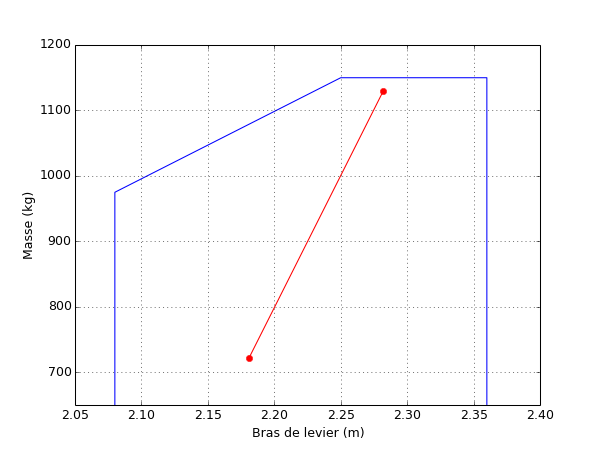
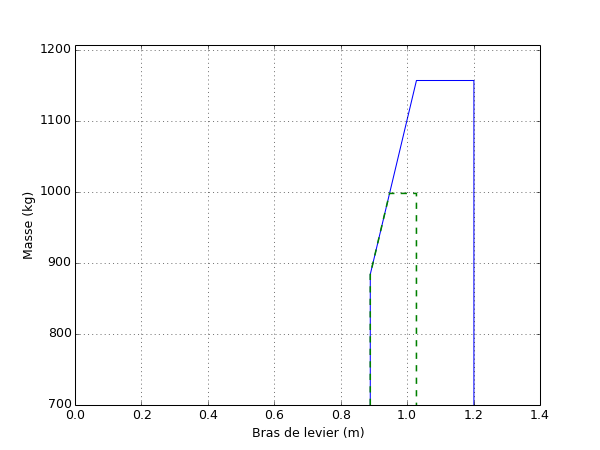
Prise en charge de la catégorie utilitaire

diff --git a/openplane/gui/gui_plane_manager.py b/openplane/gui/gui_plane_manager.py
@@ -18,6 +18,7 @@ class PlanesManagerWindow:
         handlers = {
             "on_mainWindow_destroy": self.app_quit,
             "on_carbuUnits_changed": self.on_carbuUnits_changed,
+            "on_showUtil_toggled": self.on_showUtil_toggled,
             "on_help_clicked": self.on_help_pressed,
             "on_save_clicked": self.on_save_pressed,
             "on_close_clicked": self.app_quit
@@ -108,6 +109,8 @@ class PlanesManagerWindow:
         self.up5x = builder.get_object('up5x')
         self.up5y = builder.get_object('up5y')
 
+        self.show_utilitaire = builder.get_object('showUtil')
+
         # Création de la fenêtre principale
         self.window = builder.get_object('mainWindow')
 
@@ -121,6 +124,30 @@ class PlanesManagerWindow:
         help_window = HelpWindow()
         help_window.connect('delete-event', help_window.app_quit)
         help_window.show_all()
+
+    def on_showUtil_toggled(self, box):
+        if box.get_active():
+            self.up1x.set_editable(True)
+            self.up1y.set_editable(True)
+            self.up2x.set_editable(True)
+            self.up2y.set_editable(True)
+            self.up3x.set_editable(True)
+            self.up3y.set_editable(True)
+            self.up4x.set_editable(True)
+            self.up4y.set_editable(True)
+            self.up5x.set_editable(True)
+            self.up5y.set_editable(True)
+        else:
+            self.up1x.set_editable(False)
+            self.up1y.set_editable(False)
+            self.up2x.set_editable(False)
+            self.up2y.set_editable(False)
+            self.up3x.set_editable(False)
+            self.up3y.set_editable(False)
+            self.up4x.set_editable(False)
+            self.up4y.set_editable(False)
+            self.up5x.set_editable(False)
+            self.up5y.set_editable(False)
 
     def on_carbuUnits_changed(self, *args):
         units = self.carbuUnits.get_active()
@@ -224,6 +251,8 @@ class PlanesManagerWindow:
         values.append(float(self.up5x.get_text()))
         values.append(float(self.up5y.get_text()))
 
+        values.append(self.show_utilitaire.get_active())
+
         plane = Plane()
         plane.create_plane(values)
         plane.save_plane()
@@ -306,6 +335,8 @@ class PlanesManagerWindow:
         self.up4y.set_text(str(plane.up4y))
         self.up5x.set_text(str(plane.up5x))
         self.up5y.set_text(str(plane.up5y))
+
+        self.show_utilitaire.set_active(plane.utilitaire)
 
         # Ajustements
         self.window.set_title('Modifier {}'.format(plane.immatriculation))

diff --git a/openplane/core/Plane.py b/openplane/core/Plane.py
@@ -9,7 +9,7 @@ import json
 class Plane:
 
     def __init__(self, values=None):
-        if values is not None and len(values) == 64:
+        if values is not None and len(values) == 65:
             self.create_plane(values)
 
     def create_plane(self, values):
@@ -88,6 +88,8 @@ class Plane:
         self.up4y = values[61]
         self.up5x = values[62]
         self.up5y = values[63]
+
+        self.utilitaire = values[64]
 
     def save_plane(self):
         filename = 'openplane/planes/{}.json'.format(self.immatriculation)
@@ -168,7 +170,8 @@ class Plane:
                     'P4x': self.up4x,
                     'P4y': self.up4y,
                     'P5x': self.up5x,
-                    'P5y': self.up5y
+                    'P5y': self.up5y,
+                    'Montrer': self.utilitaire
                  }
              }}
 
@@ -253,5 +256,7 @@ class Plane:
             values.append(datas['Centrage']['Utilitaire']['P4y'])
             values.append(datas['Centrage']['Utilitaire']['P5x'])
             values.append(datas['Centrage']['Utilitaire']['P5y'])
+
+            values.append(datas['Centrage']['Utilitaire']['Montrer'])
 
         self.create_plane(values)

diff --git a/openplane/gui/gui_weight.py b/openplane/gui/gui_weight.py
@@ -203,6 +203,15 @@ class WeightWindow:
         plt.plot(dom_x, dom_y, linewidth=1)
         plt.ylim((plane.p1y, plane.p3y + 50))  # Limites en y
 
+        # Catégorie utilitaire
+        if plane.utilitaire:
+            dom_u_x = np.array([plane.up1x, plane.up2x, plane.up3x,
+                          plane.up4x, plane.up5x])
+            dom_u_y = np.array([plane.up1y, plane.up2y, plane.up3y,
+                          plane.up4y, plane.up5y])
+
+            plt.plot(dom_u_x, dom_u_y, 'r--', linewidth=1.5, color='g', )
+
         # Points de centrage
         total_x = np.array([bdl_total, bdl_vide])
         total_y = np.array([masse_total, masse_vide])
